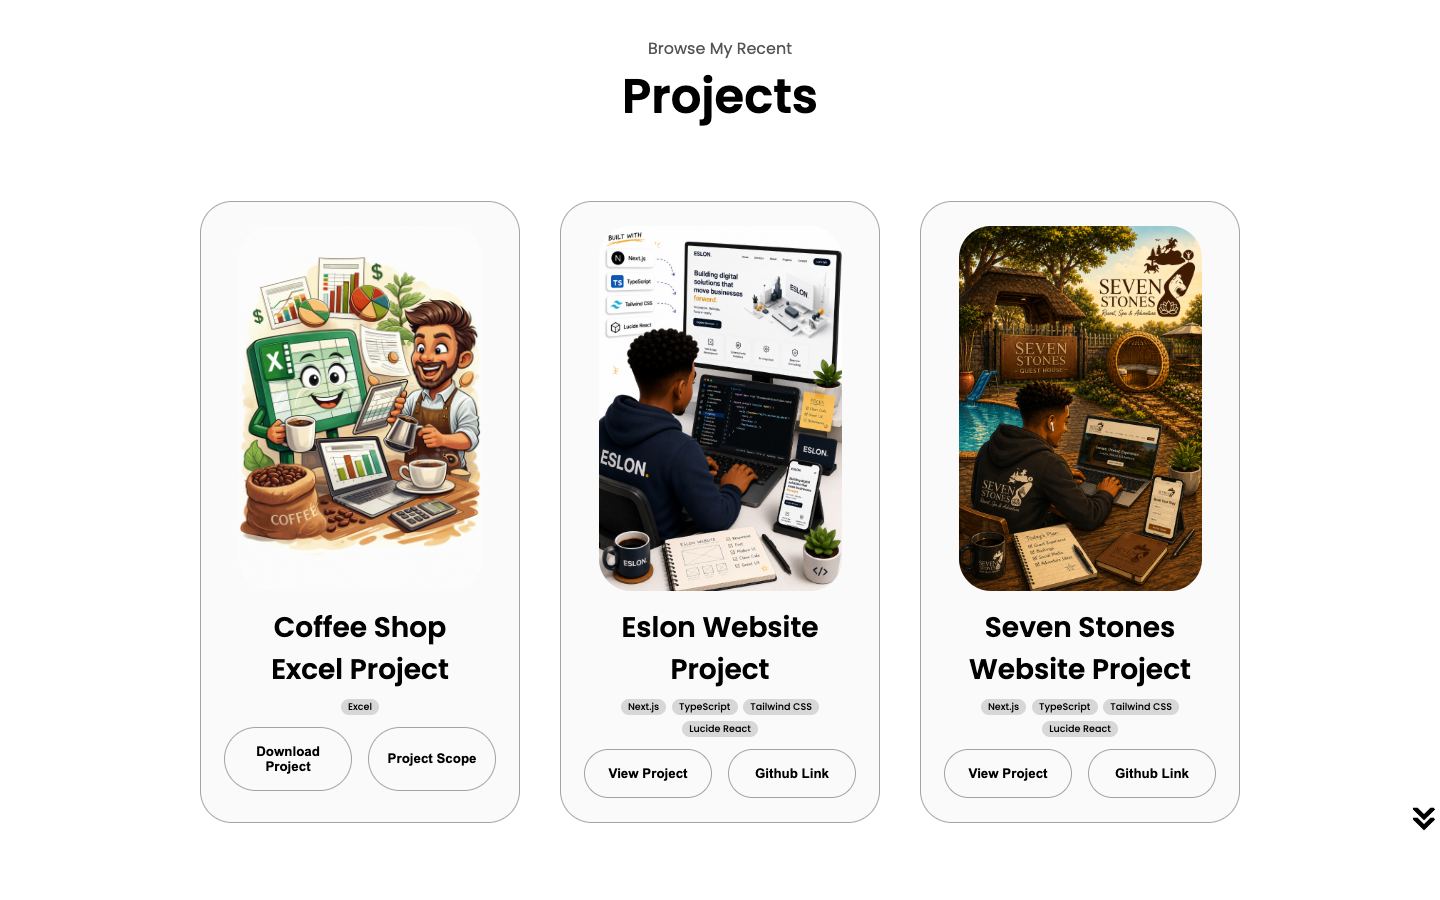
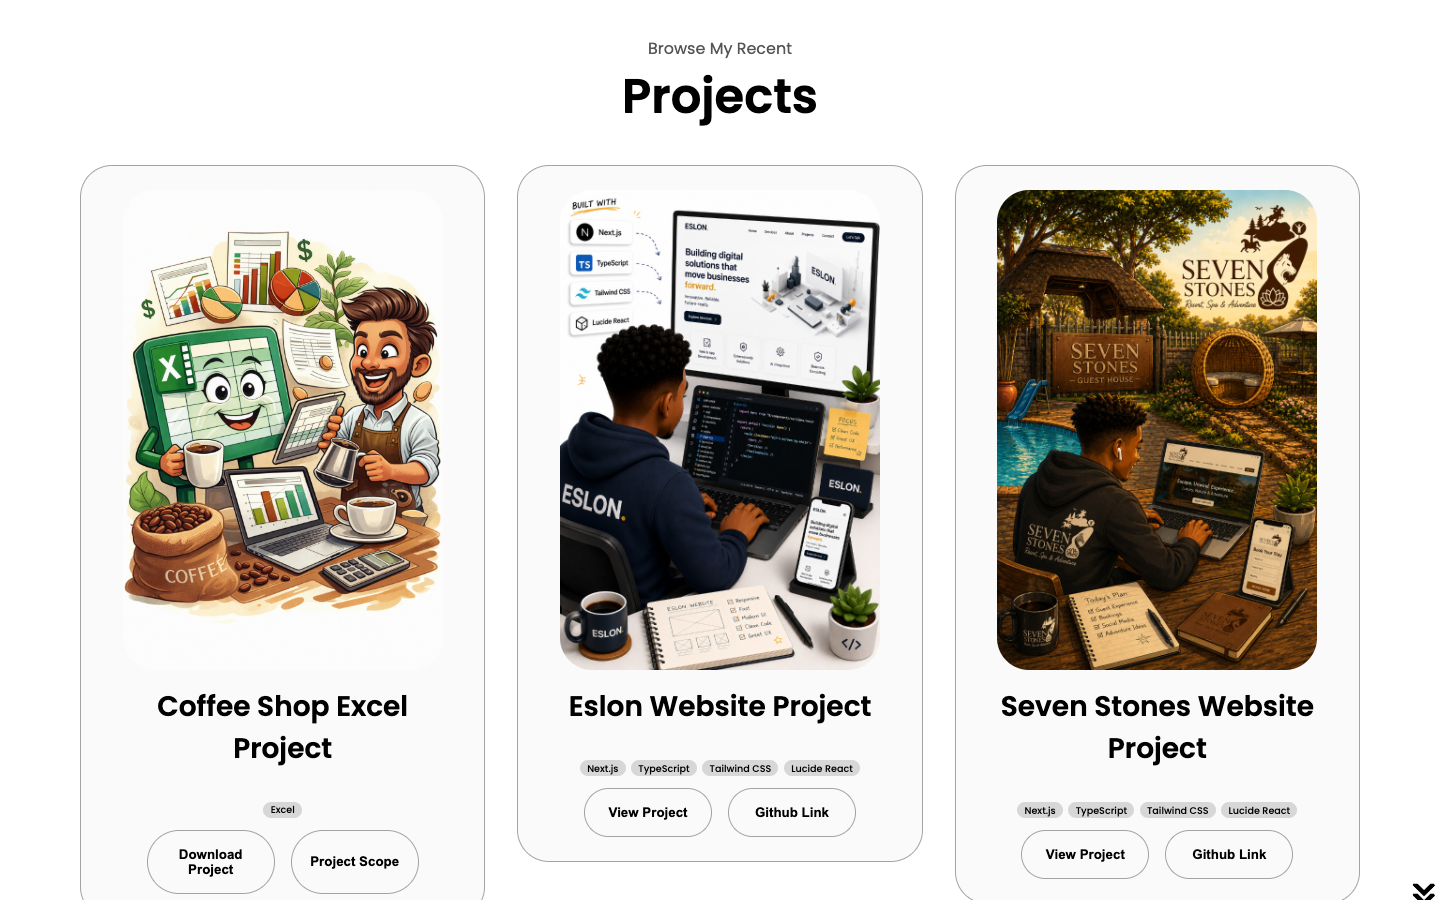
desktop

diff --git a/index.html b/index.html
@@ -376,7 +376,75 @@
         <p class="section__text__p1">Browse My Recent</p>
         <h1 class="title">Projects</h1>
         <div class="experience-details-container">
-            <div class="projects-slider-container">
+            <div class="about-containers projects-desktop">
+            <div class="details-container color-container">
+                <div class="article-container">
+                    <img src="./assets/Coffee Excel.png"
+                     alt="Project 1"
+                     class="project-img"
+                     />
+                </div>
+                <h2 class="experience-sub-title project-title"> Coffee Shop Excel Project</h2>
+                <div class="project-tags">
+                    <span class="project-tag">Excel</span>
+                </div>
+                <div class="btn-container">
+                    <button class="btn btn-color-2 project-btn" onclick="window.open('./assets/Coffee Shop Sales.xlsx')">
+                        Download Project
+                    </button>
+                    <button class="btn btn-color-2 project-btn" onclick="window.open('./assets/Coffee Shop Project Scope.pdf')">
+                        Project Scope
+                    </button>
+                </div>
+            </div>
+            <div class="details-container color-container">
+                <div class="article-container">
+                    <img src="./assets/Eslon Website.png"
+                     alt="Eslon Website Project"
+                     class="project-img"
+                     />
+                </div>
+                <h2 class="experience-sub-title project-title">Eslon Website Project</h2>
+                <div class="project-tags">
+                    <span class="project-tag">Next.js</span>
+                    <span class="project-tag">TypeScript</span>
+                    <span class="project-tag">Tailwind CSS</span>
+                    <span class="project-tag">Lucide React</span>
+                </div>
+                <div class="btn-container">
+                    <button class="btn btn-color-2 project-btn" onclick="window.open('https://eslon.co.za/')">
+                        View Project
+                    </button>
+                    <button class="btn btn-color-2 project-btn" onclick="window.open('https://github.com/techkgosi/Eslon-Web-App')">
+                        Github Link
+                    </button>
+                </div>
+            </div>
+            <div class="details-container color-container">
+                <div class="article-container">
+                    <img src="./assets/Seven Stones Website.png"
+                     alt="Seven Stones Website Project"
+                     class="project-img"
+                     />
+                </div>
+                <h2 class="experience-sub-title project-title">Seven Stones Website Project</h2>
+                <div class="project-tags">
+                    <span class="project-tag">Next.js</span>
+                    <span class="project-tag">TypeScript</span>
+                    <span class="project-tag">Tailwind CSS</span>
+                    <span class="project-tag">Lucide React</span>
+                </div>
+                <div class="btn-container">
+                    <button class="btn btn-color-2 project-btn" onclick="window.open('#')">
+                        View Project
+                    </button>
+                    <button class="btn btn-color-2 project-btn" onclick="window.open('https://github.com/techkgosi/SevenstonesLodge')">
+                        Github Link
+                    </button>
+                </div>
+            </div>
+            </div>
+            <div class="projects-slider-container projects-mobile">
                 <div class="projects-slider-wrapper swiper">
                     <div class="swiper-wrapper">
                         <div class="swiper-slide">

diff --git a/mediaqueries.css b/mediaqueries.css
@@ -13,16 +13,53 @@
         margin-left: 5rem;
         margin-right: 5rem;
     }
+
+    #projects .projects-desktop {
+        align-items: stretch;
+    }
 }
 
 @media screen and (max-width: 768px) {
+    #projects {
+        height: auto;
+        min-height: fit-content;
+        padding-bottom: 2rem;
+        overflow: visible;
+        text-align: center;
+    }
+
+    #projects .projects-desktop {
+        display: none;
+    }
+
+    #projects .projects-mobile {
+        display: block;
+    }
+
     .projects-slider-container {
+        width: 100%;
         padding: 12px 12px 0;
         margin-top: 1.5rem;
     }
 
     .projects-slider-wrapper.swiper {
+        overflow: hidden;
         padding: 12px 2px;
+    }
+
+    .projects-slider-wrapper .swiper-slide {
+        height: auto;
+        box-sizing: border-box;
+        display: flex;
+    }
+
+    .projects-slider-wrapper .swiper-slide .details-container {
+        flex: 1;
+        width: 100%;
+    }
+
+    #projects .color-container {
+        width: 100%;
     }
 
     .projects-slider-wrapper .swiper-wrapper {
@@ -34,7 +71,7 @@
         margin-top: 1.25rem;
     }
 
-    #projects .details-container.color-container {
+    #projects .projects-mobile .details-container.color-container {
         padding: 1.5rem 1rem;
         border: 2px solid transparent;
         border-radius: 2rem;
@@ -44,14 +81,14 @@
         box-shadow: 0 8px 24px rgba(0, 0, 0, 0.08);
     }
 
-    #projects .article-container {
+    #projects .projects-mobile .article-container {
         display: block;
         width: 100%;
         padding: 0.75rem 0.75rem 0;
         box-sizing: border-box;
     }
 
-    #projects .project-img {
+    #projects .projects-mobile .project-img {
         display: block;
         width: 100%;
         max-width: 100%;
@@ -61,24 +98,24 @@
         border-radius: 1rem;
     }
 
-    #projects .project-title {
+    #projects .projects-mobile .project-title {
         font-size: 1.2rem;
         line-height: 1.3;
         margin: 1rem 0.5rem 0.75rem;
     }
 
-    #projects .project-tags {
+    #projects .projects-mobile .project-tags {
         margin-bottom: 1rem;
     }
 
-    #projects .btn-container {
+    #projects .projects-mobile .btn-container {
         width: 100%;
         padding: 0 0.25rem;
         box-sizing: border-box;
         gap: 0.5rem;
     }
 
-    #projects .project-btn {
+    #projects .projects-mobile .project-btn {
         flex: 1;
         min-width: 0;
         width: auto;

diff --git a/script.js b/script.js
@@ -153,36 +153,41 @@ if (certSlider) {
 }
 
 const PROJECT_AUTOPLAY_DELAY = 7000;
-const projectsSlider = document.querySelector(".projects-slider-wrapper");
+const projectsSliderEl = document.querySelector(".projects-mobile .projects-slider-wrapper");
+let projectsSwiper = null;
 
-if (projectsSlider) {
-    new Swiper(".projects-slider-wrapper", {
-        slidesPerView: 1,
-        spaceBetween: 24,
-        speed: 900,
-        loop: true,
-        autoHeight: true,
-        autoplay: {
-            delay: PROJECT_AUTOPLAY_DELAY,
-            disableOnInteraction: false,
-            pauseOnMouseEnter: true,
-        },
-        pagination: {
-            el: "#projects .projects-slider-pagination",
-            clickable: true,
-        },
-        breakpoints: {
-            769: {
-                slidesPerView: 3,
-                spaceBetween: 32,
-                loop: false,
-                autoHeight: false,
-                allowTouchMove: false,
-                autoplay: false,
-                pagination: {
-                    enabled: false,
-                },
+function initProjectsSlider() {
+    if (!projectsSliderEl || typeof Swiper === "undefined") return;
+
+    const isMobile = window.matchMedia("(max-width: 768px)").matches;
+
+    if (isMobile && !projectsSwiper) {
+        projectsSwiper = new Swiper(".projects-mobile .projects-slider-wrapper", {
+            slidesPerView: 1,
+            spaceBetween: 24,
+            speed: 900,
+            loop: true,
+            autoHeight: true,
+            autoplay: {
+                delay: PROJECT_AUTOPLAY_DELAY,
+                disableOnInteraction: false,
+                pauseOnMouseEnter: true,
             },
-        },
-    });
+            pagination: {
+                el: "#projects .projects-slider-pagination",
+                clickable: true,
+            },
+        });
+        return;
+    }
+
+    if (!isMobile && projectsSwiper) {
+        projectsSwiper.destroy(true, true);
+        projectsSwiper = null;
+    }
+}
+
+if (projectsSliderEl) {
+    initProjectsSlider();
+    window.addEventListener("resize", initProjectsSlider);
 }

diff --git a/style.css b/style.css
@@ -385,20 +385,11 @@ article .icon {
 
 #projects {
     position: relative;
-    height: auto;
-    min-height: fit-content;
-    padding-bottom: 2rem;
-    overflow: visible;
-    text-align: center;
 }
 
 #projects .project-title {
     margin: 1rem 1rem 0.5rem;
     color: black;
-}
-
-#projects .experience-sub-title.project-title {
-    margin-bottom: 0.5rem;
 }
 
 #projects .project-tags {
@@ -434,37 +425,32 @@ article .icon {
     flex-direction: column;
     align-items: center;
     min-width: 0;
-    width: 100%;
+}
+
+.projects-mobile {
+    display: none;
 }
 
 .projects-slider-container {
     position: relative;
-    width: 100%;
     max-width: 1200px;
     margin: 2rem auto 0;
-    padding: 16px 72px 0;
     box-sizing: border-box;
-    overflow: visible;
 }
 
 .projects-slider-wrapper.swiper {
     overflow: hidden;
-    padding: 14px 4px;
-}
-
-.projects-slider-wrapper .swiper-wrapper {
-    align-items: stretch;
 }
 
 .projects-slider-wrapper .swiper-slide {
     height: auto;
     box-sizing: border-box;
-    padding: 6px 4px;
     display: flex;
 }
 
 .projects-slider-wrapper .swiper-slide .details-container {
     flex: 1;
+    width: 100%;
 }
 
 #projects .projects-slider-pagination {
@@ -495,8 +481,7 @@ article .icon {
 .project-img {
     border-radius: 2rem;
     width: 90%;
-    height: auto;
-    object-fit: contain;
+    height: 90%;
 }
 
 .project-title {
